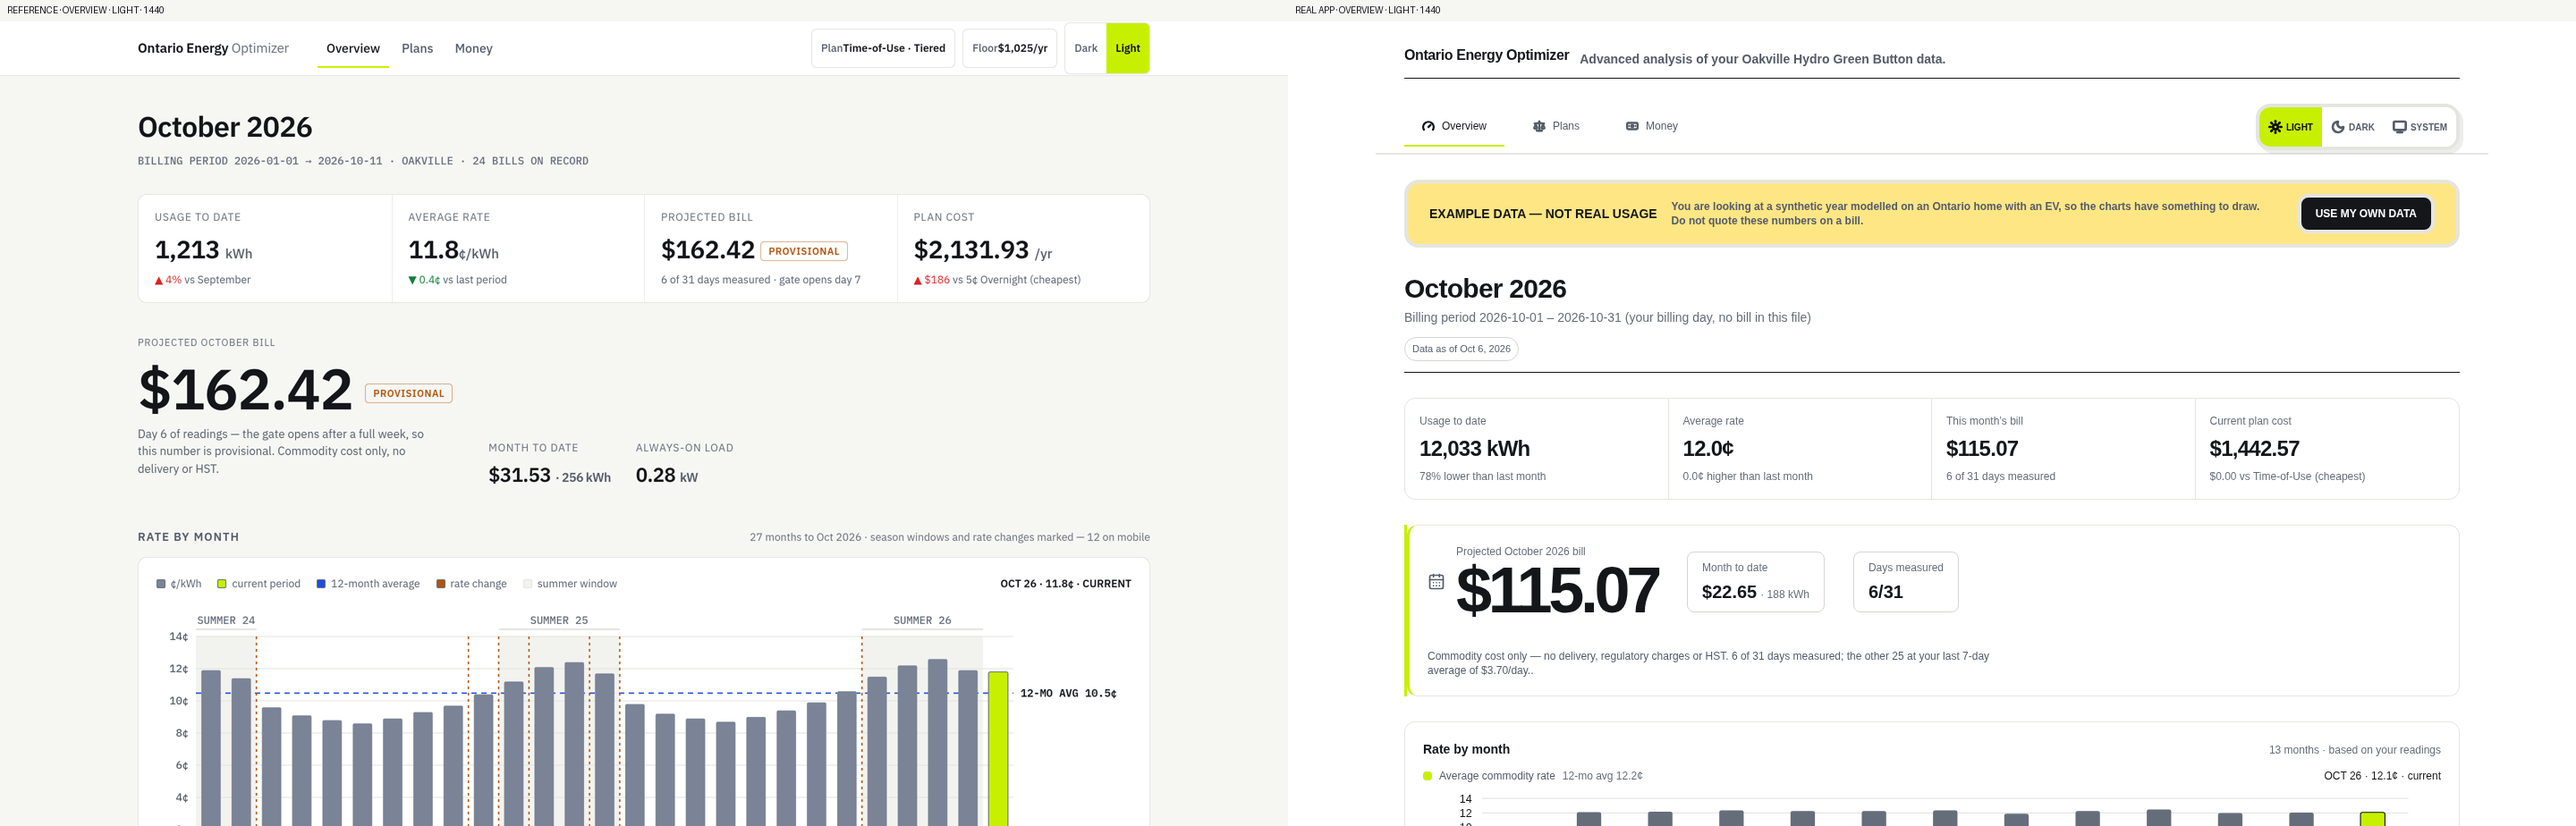
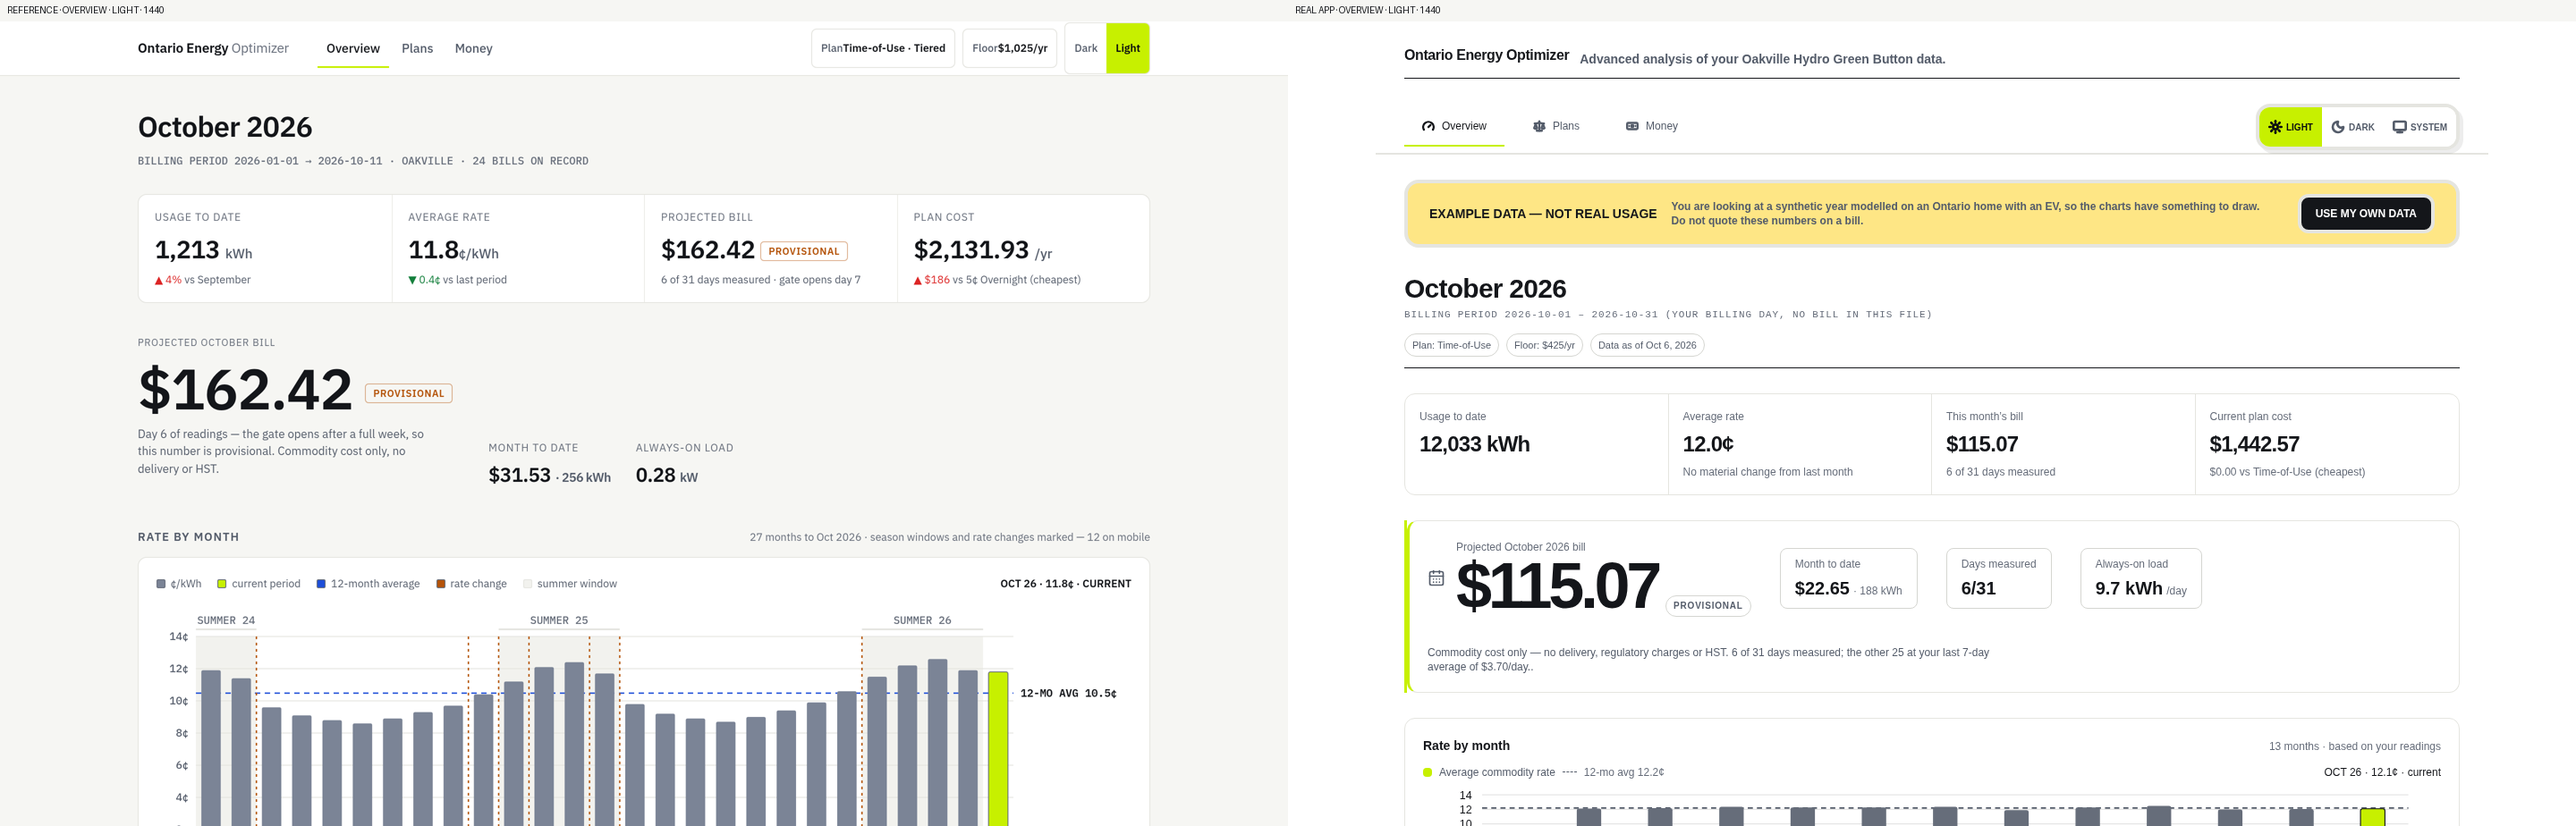
fix(ui): close Quiet Meter QA gaps

diff --git a/webapp/src/components/OverviewPanel.tsx b/webapp/src/components/OverviewPanel.tsx
@@ -16,9 +16,9 @@
 import React from 'react';
 import { dataFreshness } from '@/lib/freshness';
 import {
-  fmtCents, fmtDate, fmtDateLong, fmtDay, fmtKwh, fmtMoney, fmtNumber, moneyPeriodUnit, planLabel, useTranslation,
+  fmtCents, fmtDate, fmtDateLong, fmtDay, fmtKwh, fmtMoney, fmtMoney0, fmtNumber, moneyPeriodUnit, planLabel, useTranslation,
 } from '@/i18n';
-import type { FullDataTotals } from '@/lib/energy';
+import type { AlwaysOnFloor, FullDataTotals } from '@/lib/energy';
 import type { BillProjection } from '@/lib/billProjection';
 import type { PlanId } from '@/hooks/useSelectedPlan';
 import type { PlanCosts } from '@/lib/verdict';
@@ -58,6 +58,8 @@ export type OverviewPanelProps = {
   rateMismatch?: boolean;
   /** Latest file-backed billing window, never a mockup month. */
   latestPeriod: AxisPeriod | null;
+  /** Source-derived always-on baseline for the same data window. */
+  floor?: AlwaysOnFloor | null;
 };
 
 export default function OverviewPanel({
@@ -77,6 +79,7 @@ export default function OverviewPanel({
   importReview,
   rateMismatch = false,
   latestPeriod,
+  floor,
 }: OverviewPanelProps) {
   // Wave U — locale subscription; every text useMemo below lists `t`.
   const { t } = useTranslation();
@@ -111,12 +114,13 @@ export default function OverviewPanel({
     return kwh > 0 ? cost / kwh * 100 : null;
   }, [usage.processedData, userPlan]);
   const metricDeltas = React.useMemo(() => {
-    const months = new Map<string, { kwh: number; cost: number }>();
+    const months = new Map<string, { kwh: number; cost: number; days: Set<string> }>();
     for (const row of usage.processedData) {
       const key = row.dayStr.slice(0, 7);
-      const current = months.get(key) ?? { kwh: 0, cost: 0 };
+      const current = months.get(key) ?? { kwh: 0, cost: 0, days: new Set<string>() };
       current.kwh += row.usage_kwh;
       current.cost += userPlan === 'TOU' ? row.costTOU : userPlan === 'Tiered' ? row.costTiered : row.costULO;
+      current.days.add(row.dayStr);
       months.set(key, current);
     }
     const keys = [...months.keys()].sort();
@@ -124,8 +128,14 @@ export default function OverviewPanel({
     const current = months.get(keys.at(-1)!);
     const previous = months.get(keys.at(-2)!);
     if (!current || !previous || current.kwh <= 0 || previous.kwh <= 0) return null;
+    const [year, month] = keys.at(-1)!.split('-').map(Number);
+    const daysInCurrentMonth = new Date(year, month, 0).getDate();
     return {
-      usagePct: (current.kwh - previous.kwh) / previous.kwh * 100,
+      // A partial calendar month is not comparable to a whole previous one.
+      // Keep the rate delta, which is independently normalized per kWh.
+      usagePct: current.days.size === daysInCurrentMonth
+        ? (current.kwh - previous.kwh) / previous.kwh * 100
+        : null,
       rateDelta: (current.cost / current.kwh - previous.cost / previous.kwh) * 100,
     };
   }, [usage.processedData, userPlan]);
@@ -137,12 +147,14 @@ export default function OverviewPanel({
           <h1 className="text-2xl md:text-3xl font-semibold tracking-tight normal-case">
             {headingDate ? fmtDate(new Date(headingDate + 'T00:00:00'), 'MMMM yyyy') : fmtDateLong(new Date(totals.lastDate + 'T00:00:00'))}
           </h1>
-          <p className="mt-1 text-xs md:text-sm font-normal normal-case text-ink-3">
+          <p className="quiet-overview-period-meta mt-1">
             {latestPeriod
               ? t('overview.billingPeriod', { period: latestPeriod.label })
               : t('overview.wholeDataset', { start: fmtDay(totals.firstDate), end: fmtDateLong(new Date(totals.lastDate + 'T00:00:00')) })}
           </p>
           <div className="mt-3 flex flex-wrap items-center gap-2" data-testid="overview-context-pills">
+            <span className="quiet-context-pill">{t('overview.planPill', { plan: planLabel(userPlan) })}</span>
+            {floor && <span className="quiet-context-pill">{t('overview.floorPill', { cost: fmtMoney0(floor.annualCost) })}</span>}
             <span className="quiet-context-pill">{t('overview.dataAsOf', { date: fmtDateLong(new Date(totals.lastDate + 'T00:00:00')) })}</span>
             {latestPeriod?.estimated && <span className="quiet-context-pill">{t('overview.provisional')}</span>}
             {fileStatus}
@@ -155,12 +167,12 @@ export default function OverviewPanel({
           <div className="quiet-overview-metric">
             <div className="quiet-overview-label">{t('overview.usageToDate')}</div>
             <div className="quiet-overview-value tabular-nums">{fmtKwh(totals.totalKwh, 0)}</div>
-            {metricDeltas && <div className={`quiet-overview-meta mt-1 ${metricDeltas.usagePct <= 0 ? 'text-good' : 'text-bad'}`}>{t('overview.usageDelta', { percent: fmtNumber(Math.abs(metricDeltas.usagePct), 0), direction: metricDeltas.usagePct <= 0 ? t('overview.lower') : t('overview.higher') })}</div>}
+            {metricDeltas?.usagePct !== null && metricDeltas?.usagePct !== undefined && <div className={`quiet-overview-meta mt-1 ${Math.abs(metricDeltas.usagePct) < 0.5 ? 'text-ink-3' : metricDeltas.usagePct < 0 ? 'text-good' : 'text-bad'}`}>{Math.abs(metricDeltas.usagePct) < 0.5 ? t('overview.deltaUnchanged') : t('overview.usageDelta', { percent: fmtNumber(Math.abs(metricDeltas.usagePct), 0), direction: metricDeltas.usagePct < 0 ? t('overview.lower') : t('overview.higher') })}</div>}
           </div>
           <div className="quiet-overview-metric">
             <div className="quiet-overview-label">{t('overview.averageRate')}</div>
             <div className="quiet-overview-value tabular-nums">{efficiency.allTime ? fmtCents(efficiency.allTime.cents, 1) : observedAverageRate !== null ? fmtCents(observedAverageRate, 1) : '—'}</div>
-            {metricDeltas && <div className={`quiet-overview-meta mt-1 ${metricDeltas.rateDelta <= 0 ? 'text-good' : 'text-bad'}`}>{t('overview.rateDelta', { rate: fmtCents(Math.abs(metricDeltas.rateDelta), 1), direction: metricDeltas.rateDelta <= 0 ? t('overview.lower') : t('overview.higher') })}</div>}
+            {metricDeltas && <div className={`quiet-overview-meta mt-1 ${Math.abs(metricDeltas.rateDelta) < 0.05 ? 'text-ink-3' : metricDeltas.rateDelta < 0 ? 'text-good' : 'text-bad'}`}>{Math.abs(metricDeltas.rateDelta) < 0.05 ? t('overview.deltaUnchanged') : t('overview.rateDelta', { rate: fmtCents(Math.abs(metricDeltas.rateDelta), 1), direction: metricDeltas.rateDelta < 0 ? t('overview.lower') : t('overview.higher') })}</div>}
           </div>
           <div className="quiet-overview-metric">
             <div className="quiet-overview-label">{t('projection.thisMonthBill')}</div>
@@ -176,7 +188,7 @@ export default function OverviewPanel({
       )}
 
       <section className="quiet-bill-focus" aria-label={t('projection.thisMonthBill')} data-testid="overview-bill-focus">
-        <BillProjectionBanner projection={projection} />
+        <BillProjectionBanner projection={projection} floor={floor} />
       </section>
 
       <RateByMonth rows={usage.processedData} plan={userPlan} />

diff --git a/webapp/src/components/BillProjectionBanner.tsx b/webapp/src/components/BillProjectionBanner.tsx
@@ -10,9 +10,10 @@
 
 import { CalendarDays, Hourglass } from 'lucide-react';
 import type { BillProjection } from '@/lib/billProjection';
+import type { AlwaysOnFloor } from '@/lib/energy';
 import { fmtKwh, fmtMoney, useTranslation } from '@/i18n';
 
-export default function BillProjectionBanner({ projection }: { projection: BillProjection }) {
+export default function BillProjectionBanner({ projection, floor }: { projection: BillProjection; floor?: AlwaysOnFloor | null }) {
   // Wave U — `t` also re-renders this banner on a locale switch.
   const { t } = useTranslation();
   if (!projection.ready) {
@@ -41,8 +42,11 @@ export default function BillProjectionBanner({ projection }: { projection: BillP
         <CalendarDays size={20} strokeWidth={2} className="text-ink-2" />
         <div>
           <div className="quiet-overview-label">{t('projection.projected', { month: projection.monthLabel })}</div>
-          <div data-testid="bill-projection-amount" className="quiet-projection-amount tabular-nums">
-            {fmtMoney(projection.projectedCost)}
+          <div className="flex flex-wrap items-end gap-2">
+            <div data-testid="bill-projection-amount" className="quiet-projection-amount tabular-nums">
+              {fmtMoney(projection.projectedCost)}
+            </div>
+            <span data-testid="bill-projection-provisional" className="quiet-projection-provisional">{t('overview.provisional')}</span>
           </div>
         </div>
       </div>
@@ -65,6 +69,14 @@ export default function BillProjectionBanner({ projection }: { projection: BillP
           {projection.monthDaysCovered}/{projection.daysInMonth}
         </div>
       </div>
+
+      {floor && <div className="quiet-projection-stat px-3 md:px-4 py-2" data-testid="bill-projection-always-on">
+        <div className="quiet-overview-label">{t('projection.alwaysOnLoad')}</div>
+        <div className="mt-1 text-lg md:text-xl font-semibold tabular-nums">
+          {fmtKwh(floor.kwhPerDay, 1)}
+          <span className="text-xs font-medium ml-1 text-ink-3">{t('projection.perDay')}</span>
+        </div>
+      </div>}
 
       {/* The method caption remains explicit without competing with the amount. */}
       <p className="text-xs text-ink-2 basis-full md:basis-auto max-w-2xl">

diff --git a/webapp/src/components/RateByMonth.tsx b/webapp/src/components/RateByMonth.tsx
@@ -58,7 +58,7 @@ export default function RateByMonth({ rows, plan }: { rows: ProcessedPoint[]; pl
       <div className="flex items-center gap-2 mb-2 text-xs font-normal normal-case text-ink-2">
         <span className="inline-block w-2.5 h-2.5 rounded-sm bg-accent" aria-hidden="true" />
         <span>{t('rateChart.rateLegend')}</span>
-        {rateAverage12 !== null && <span className="text-ink-3">{t('rateChart.twelveMonthAverage', { rate: fmtCents(rateAverage12, 1) })}</span>}
+        {rateAverage12 !== null && <><span className="inline-block w-4 border-t border-dashed border-ink-2" aria-hidden="true" /><span className="text-ink-3">{t('rateChart.twelveMonthAverage', { rate: fmtCents(rateAverage12, 1) })}</span></>}
         <span role="status" aria-live="polite" className="ml-auto font-medium text-ink tabular-nums" data-testid="rate-chart-readout">
           {selected ? `${selected.label} · ${fmtCents(selected.rate, 1)}${selected.key === currentMonth ? ` · ${t('rateChart.current')}` : ''}` : t('rateChart.empty')}
         </span>
@@ -74,6 +74,16 @@ export default function RateByMonth({ rows, plan }: { rows: ProcessedPoint[]; pl
                 <text x="48" y={y + 4} textAnchor="end" className="fill-current text-[11px]">{value}</text>
               </g>;
             })}
+            {rateAverage12 !== null && <line
+              data-testid="rate-chart-average-line"
+              x1={plot.x}
+              x2={plot.x + plot.width}
+              y1={plot.y + plot.height - Math.min(maxRate, rateAverage12) / maxRate * plot.height}
+              y2={plot.y + plot.height - Math.min(maxRate, rateAverage12) / maxRate * plot.height}
+              stroke="var(--ink-2)"
+              strokeWidth="1.5"
+              strokeDasharray="5 4"
+            />}
             {data.map((point, index) => {
               const slot = plot.width / data.length;
               const x = plot.x + index * slot + (slot - barWidth) / 2;

diff --git a/webapp/src/components/OverviewPanel.test.tsx b/webapp/src/components/OverviewPanel.test.tsx
@@ -86,4 +86,37 @@ describe('Overview actionable attention items', () => {
       'https://github.com/margosmark/electricity-dashboard/edit/main/webapp/src/app/api/rates/route.ts',
     );
   });
+
+  it('suppresses the usage delta for a partial current month and labels a zero rate delta neutrally', () => {
+    const monthlyRows = [
+      ...Array.from({ length: 30 }, (_, index) => {
+        const day = String(index + 1).padStart(2, '0');
+        return { dayStr: `2026-09-${day}`, dateObj: new Date(`2026-09-${day}T12:00:00`), usage_kwh: 10, costTOU: 1, costTiered: 1, costULO: 1 };
+      }),
+      ...Array.from({ length: 6 }, (_, index) => {
+        const day = String(index + 1).padStart(2, '0');
+        return { dayStr: `2026-10-${day}`, dateObj: new Date(`2026-10-${day}T12:00:00`), usage_kwh: 10, costTOU: 1, costTiered: 1, costULO: 1 };
+      }),
+    ] as typeof usage.processedData;
+    render(
+      <OverviewPanel
+        comparison={null}
+        userPlan="TOU"
+        days={36}
+        totals={{ firstDate: '2026-09-01', lastDate: '2026-10-06', totalKwh: 360, costTOU: 36, costTiered: 36, costULO: 36, bestPlan: 'TOU', worstPlan: 'ULO', planDelta: 0 }}
+        costMode="yr"
+        setCostMode={vi.fn()}
+        reframe=""
+        projection={projection}
+        efficiency={{ allTime: null, inView: null, periods: [] } as unknown as EfficiencyReport}
+        onOpenMoney={vi.fn()}
+        onOpenPlans={vi.fn()}
+        importReview={false}
+        latestPeriod={null}
+        usage={{ ...usage, processedData: monthlyRows }}
+      />,
+    );
+    expect(screen.queryByText(/lower than last month/i)).not.toBeInTheDocument();
+    expect(screen.getByText('No material change from last month')).toBeInTheDocument();
+  });
 });

diff --git a/webapp/src/components/BillProjectionBanner.test.tsx b/webapp/src/components/BillProjectionBanner.test.tsx
@@ -2,7 +2,7 @@ import { describe, it, expect } from 'vitest';
 import { render, screen } from '@testing-library/react';
 import BillProjectionBanner from './BillProjectionBanner';
 import { projectMonthBill, MIN_DAYS_FOR_PROJECTION } from '@/lib/billProjection';
-import { processRawData, type DataPoint, type ProcessedPoint, type RateSet } from '@/lib/energy';
+import { processRawData, type AlwaysOnFloor, type DataPoint, type ProcessedPoint, type RateSet } from '@/lib/energy';
 
 const RATES: RateSet = {
   effectiveDate: '2025-11-01',
@@ -29,7 +29,8 @@ describe('BillProjectionBanner', () => {
     const projection = projectMonthBill(hourlyFrom(oct(1), 10, 1), 'Tiered', oct(10));
     expect(projection.ready).toBe(true);
 
-    render(<BillProjectionBanner projection={projection} />);
+    const floor = { kwhPerDay: 1.2 } as AlwaysOnFloor;
+    render(<BillProjectionBanner projection={projection} floor={floor} />);
 
     expect(screen.getByTestId('bill-projection')).toHaveAttribute('data-state', 'ready');
     // 240 kWh measured over 10 covered days: 197.37 kWh at tier 1 (12¢) + 42.63
@@ -40,6 +41,9 @@ describe('BillProjectionBanner', () => {
     expect(screen.getByText('Month to date')).toBeInTheDocument();
     expect(screen.getByText(/\$29\.74/)).toBeInTheDocument();
     expect(screen.getByText('10/31')).toBeInTheDocument();
+    expect(screen.getByTestId('bill-projection-provisional')).toHaveTextContent('Provisional');
+    expect(screen.getByTestId('bill-projection-always-on')).toHaveTextContent('Always-on load');
+    expect(screen.getByTestId('bill-projection-always-on')).toHaveTextContent('1.2 kWh/day');
     expect(screen.getByText(/Commodity cost only/)).toBeInTheDocument();
   });
 

diff --git a/webapp/src/app/globals.css b/webapp/src/app/globals.css
@@ -744,6 +744,16 @@ body {
   padding: 0.25rem 0.5rem;
 }
 
+.quiet-overview-period-meta {
+  color: var(--ink-3);
+  font-family: ui-monospace, SFMono-Regular, Menlo, Monaco, Consolas, "Liberation Mono", monospace;
+  font-size: 0.6875rem;
+  font-weight: 500;
+  letter-spacing: 0.08em;
+  line-height: 1.45;
+  text-transform: uppercase;
+}
+
 .quiet-overview-value {
   margin-top: 0.25rem;
   color: var(--ink);
@@ -771,6 +781,19 @@ body {
   font-weight: 600;
   letter-spacing: -0.06em;
   line-height: 0.95;
+}
+
+.quiet-projection-provisional {
+  background: var(--inset);
+  border: 1px solid var(--edge-muted);
+  border-radius: 999px;
+  color: var(--ink-2);
+  font-size: 0.625rem;
+  font-weight: 600;
+  letter-spacing: 0.08em;
+  line-height: 1;
+  padding: 0.375rem 0.5rem;
+  text-transform: uppercase;
 }
 
 .quiet-projection-stat,

diff --git a/webapp/src/components/RateByMonth.test.tsx b/webapp/src/components/RateByMonth.test.tsx
@@ -16,6 +16,7 @@ describe('RateByMonth', () => {
     expect(bars[0]).toHaveAttribute('aria-label', expect.stringContaining('12.0'));
     expect(screen.getByTestId('rate-chart-svg')).toHaveTextContent('0');
     expect(screen.getByTestId('rate-chart-svg')).toHaveTextContent('14');
+    expect(screen.getByTestId('rate-chart-average-line')).toHaveAttribute('stroke-dasharray', '5 4');
     fireEvent.focus(bars[0]);
     expect(screen.getByTestId('rate-chart-readout')).toHaveTextContent('JAN 26');
     fireEvent.click(screen.getByText(/View accessible data table/i));

diff --git a/webapp/src/components/Dashboard.tsx b/webapp/src/components/Dashboard.tsx
@@ -801,6 +801,7 @@ export default function Dashboard() {
           onOpenPlans={() => setActiveTab('plans')}
           rateMismatch={Boolean(staleness.stale)}
           latestPeriod={axis.open ?? axis.periods.at(-1) ?? null}
+          floor={floor}
           usage={{
             staleness, anomalies, heatmapData, processedData, temps,
             zoomLevel, zoomTarget, goBack, navigatePeriod,

diff --git a/webapp/public/sw.js b/webapp/public/sw.js
@@ -78,7 +78,7 @@
 // npm lifecycle, so every `npm run build` (CI, Docker, deploy) serves a
 // byte-different /sw.js and installed PWAs re-install + drop old caches.
 // 'oeo-v1-local' is the committed placeholder a fresh clone builds with.
-const VERSION = 'oeo-v1-mv9fq00u';
+const VERSION = 'oeo-v1-mv9hfd84';
 const SHELL_CACHE = `${VERSION}-shell`;
 const RUNTIME_CACHE = `${VERSION}-runtime`;
 
